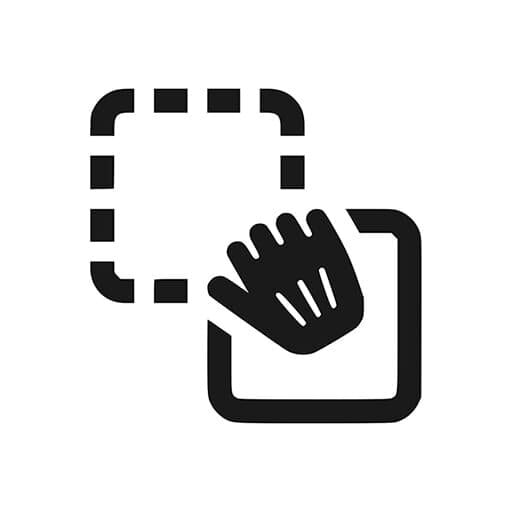
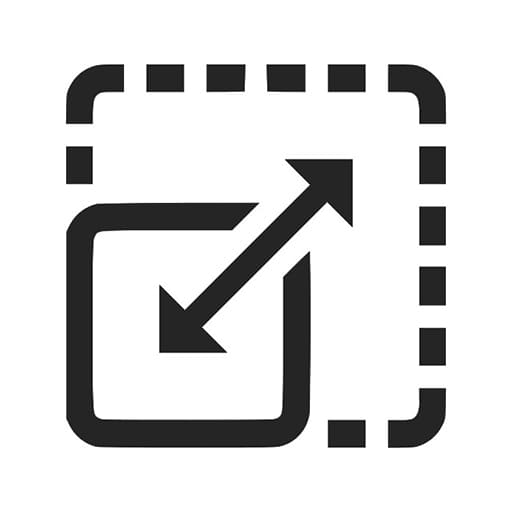
:memo: Printing Figure ID when Printing Info (#54)
* Added IDs to print info

* Changed Resize icon

Changed region(s): [[0.125, 0.125, 0.875, 0.875], [0.75, 0.125, 0.875, 0.25]]

diff --git a/Figures/CRectangle.cpp b/Figures/CRectangle.cpp
@@ -71,7 +71,9 @@ void CRectangle::Load(ifstream& fin)
 }
 
 void CRectangle::PrintInfo(Output* pOut) {
-	string info = "Rectangle: Corner1 = (";
+	string info = "Rectangle: ID = ";
+	info += to_string(ID);
+	info += ", Corner1 = (";
 	info += to_string(Corner1.x);
 	info += ", ";
 	info += to_string(Corner1.y);

diff --git a/Figures/CHexagon.cpp b/Figures/CHexagon.cpp
@@ -80,7 +80,9 @@ void CHexagon::Load(ifstream& fin)
 }
 
 void CHexagon::PrintInfo(Output* pOut) {
-	string info = "Hexagon: Center = (";
+	string info = "Hexagon: ID = ";
+	info += to_string(ID);
+	info += ", Center = (";
 	info += to_string(center.x);
 	info += ", ";
 	info += to_string(center.y);

diff --git a/Figures/CTriangle.cpp b/Figures/CTriangle.cpp
@@ -94,7 +94,9 @@ void CTriangle::Load(ifstream& fin)
 }
 
 void CTriangle::PrintInfo(Output* pOut) {
-	string info = "Triangle: Vertex1 = (";
+	string info = "Triangle: ID = ";
+	info += to_string(ID);
+	info += ", Vertex1 = (";
 	info += to_string(P1.x);
 	info += ", ";
 	info += to_string(P1.y);

diff --git a/Figures/CCircle.cpp b/Figures/CCircle.cpp
@@ -55,7 +55,9 @@ void CCircle::Load(ifstream& fin)
 }
 
 void CCircle::PrintInfo(Output* pOut) {
-	string info = "Circle: Center = (";
+	string info = "Circle: ID = ";
+	info += to_string(ID);
+	info += ", Center = (";
 	info += to_string(center.x);
 	info += ", ";
 	info += to_string(center.y);

diff --git a/Figures/CSquare.cpp b/Figures/CSquare.cpp
@@ -63,7 +63,9 @@ void CSquare::Load(ifstream& fin)
 }
 
 void CSquare::PrintInfo(Output* pOut) {
-	string info = "Square: Center = (";
+	string info = "Square: ID = ";
+	info += to_string(ID);
+	info += ", Center = (";
 	info += to_string(center.x);
 	info += ", ";
 	info += to_string(center.y);
